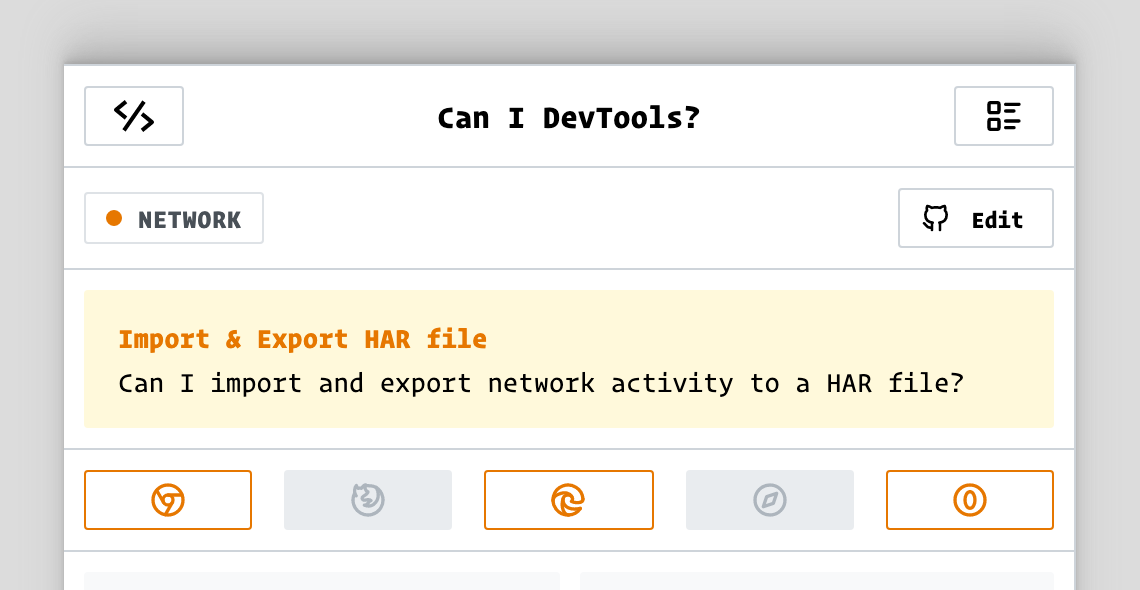
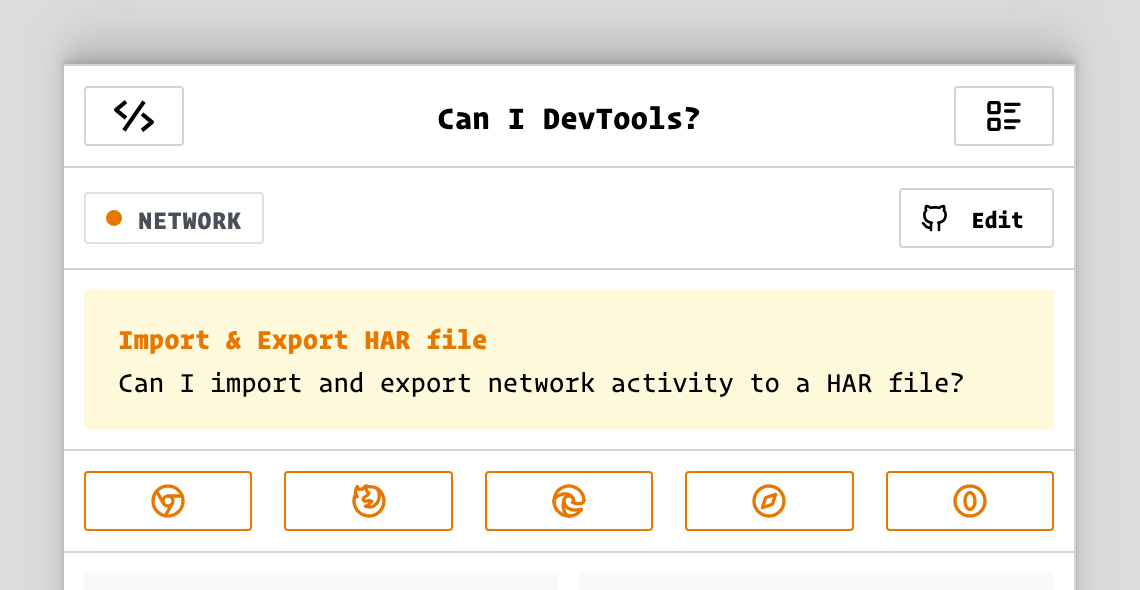
added share/newletter links

diff --git a/README.md b/README.md
@@ -776,9 +776,14 @@
  Can I import and export network activity to a HAR file? 
 - [Chrome](https://canidev.tools/import-export-har/chrome) 
  1. In the **Network** panel, use the **Up** (↑) and **Down** (↓) arrow buttons in the toolbar to **Import** and **Export** all the network activity into a HAR file.
+- [Firefox](https://canidev.tools/import-export-har/firefox) 
+ 1. In the **Network** panel, click the **Gear** icon to open the **Network** **Settings**.
+2. Click "Save All As HAR" to export the HAR file and "Import HAR File" to import the HAR file.
 - [Edge](https://canidev.tools/import-export-har/edge) 
  1. In the **Network** panel, use the **Up** (↑) and **Down** (↓) arrow buttons in the toolbar to **Import** and **Export** all the network activity into a HAR file.
 
+- [Safari](https://canidev.tools/import-export-har/safari) 
+ 1. In the **Network** panel, use the **Import** & **Export** buttons to import and export HAR file respectively.
 - [Opera](https://canidev.tools/import-export-har/opera) 
  1. In the **Network** panel, use the **Up** (↑) and **Down** (↓) arrow buttons in the toolbar to **Import** and **Export** all the network activity into a HAR file.
 
